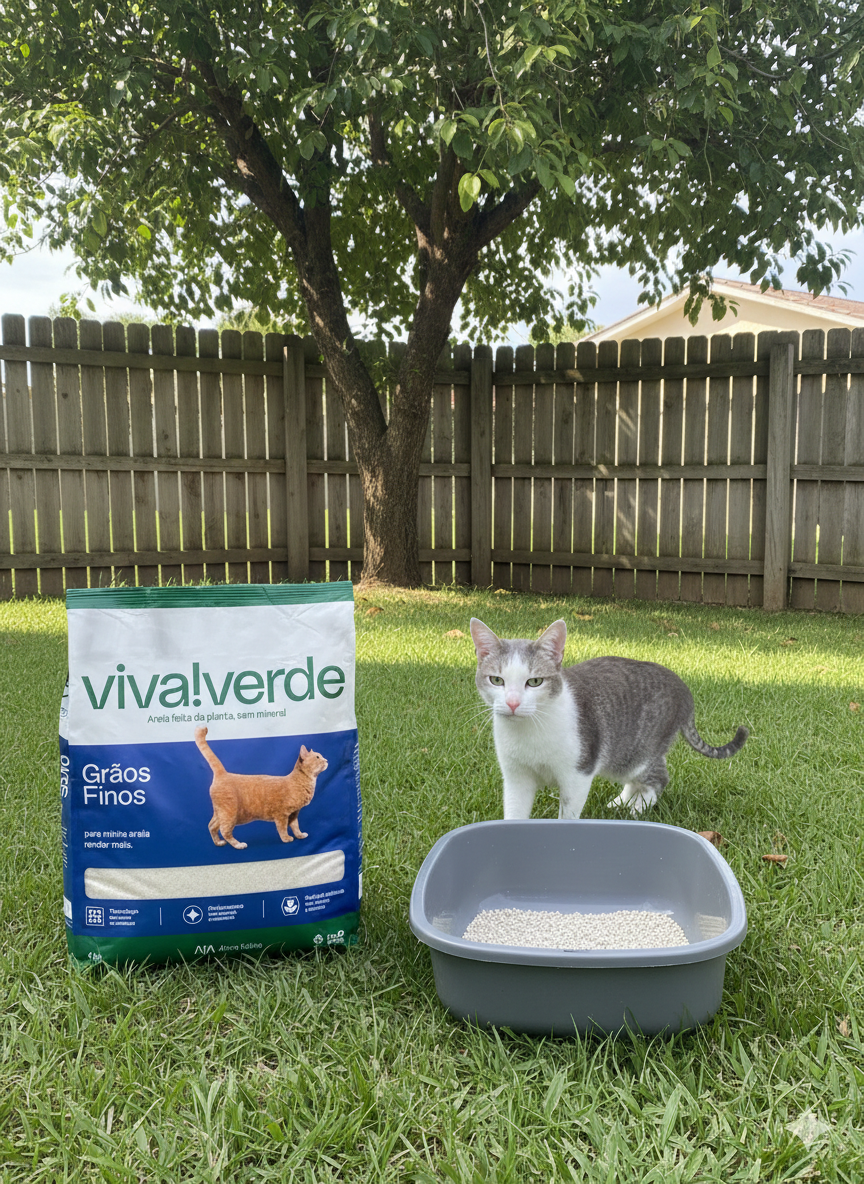
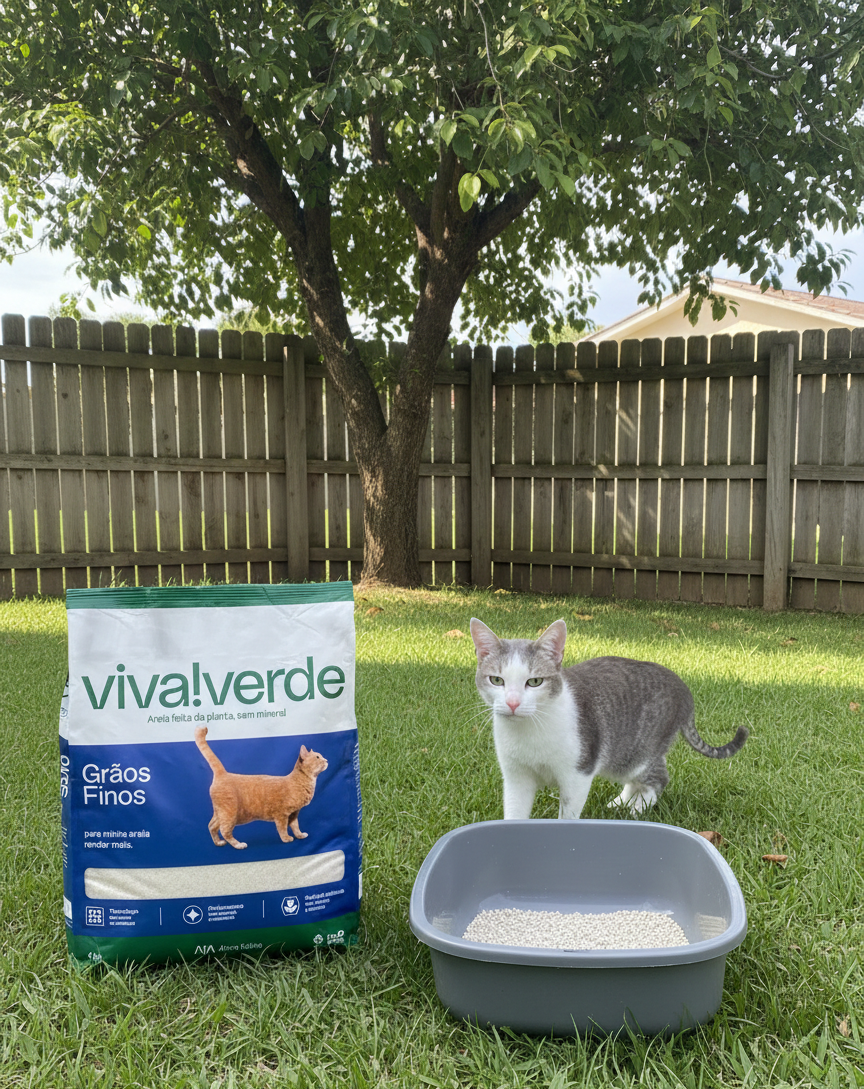
Atualiza fotos pet e haircare, muda titulo do produto antiqueda e deixa a grade em 4 colunas

diff --git a/index.html b/index.html
@@ -630,8 +630,8 @@
      de baixo (o mesmo espírito das Polaroids da seção Sobre Mim). */
   .portfolio-grade{
     display:grid;
-    grid-template-columns: repeat(3, 1fr);
-    gap: 30px 26px;
+    grid-template-columns: repeat(4, 1fr);
+    gap: 24px 20px;
   }
   .portfolio-item{
     --rotacao: 0deg;
@@ -709,10 +709,13 @@
   }
   .portfolio-item.escondido{ display:none; }
 
-  @media (max-width: 900px){
+  @media (max-width: 1000px){
+    .portfolio-grade{ grid-template-columns: repeat(3, 1fr); }
+  }
+  @media (max-width: 700px){
     .portfolio-grade{ grid-template-columns: repeat(2, 1fr); }
   }
-  @media (max-width: 560px){
+  @media (max-width: 420px){
     .portfolio-grade{ grid-template-columns: 1fr; }
   }
 
@@ -1315,7 +1318,7 @@
       { titulo: "Rotina de skincare", categoria: "beleza", foto: "fotos/skincare-1.png", gradiente: "linear-gradient(150deg, #df7900, #0049a4)" },
       { titulo: "Resultado e textura do produto", categoria: "beleza", foto: "fotos/skincare-2.jpg", gradiente: "linear-gradient(150deg, #0049a4, #14110d)" },
       { titulo: "Cuidados com os cabelos", categoria: "beleza", foto: "fotos/haircare-1.png", gradiente: "linear-gradient(150deg, #df7900, #14110d)" },
-      { titulo: "Finalização e brilho", categoria: "beleza", foto: "fotos/haircare-2.png", gradiente: "linear-gradient(150deg, #0049a4, #df7900)" },
+      { titulo: "Rotina antiqueda capilar", categoria: "beleza", foto: "fotos/haircare-2.png", gradiente: "linear-gradient(150deg, #0049a4, #df7900)" },
       { titulo: "Rotina de limpeza prática", categoria: "casa e limpeza", foto: "fotos/casaelimpeza-1.jpg", gradiente: "linear-gradient(150deg, #14110d, #0049a4)" },
       { titulo: "Produto em uso no dia a dia", categoria: "casa e limpeza", foto: "fotos/casaelimpeza-2.jpg", gradiente: "linear-gradient(150deg, #df7900, #0049a4)" },
       { titulo: "Organização da casa", categoria: "casa e limpeza", foto: "fotos/casaelimpeza-3.jpg", gradiente: "linear-gradient(150deg, #14110d, #df7900)" },